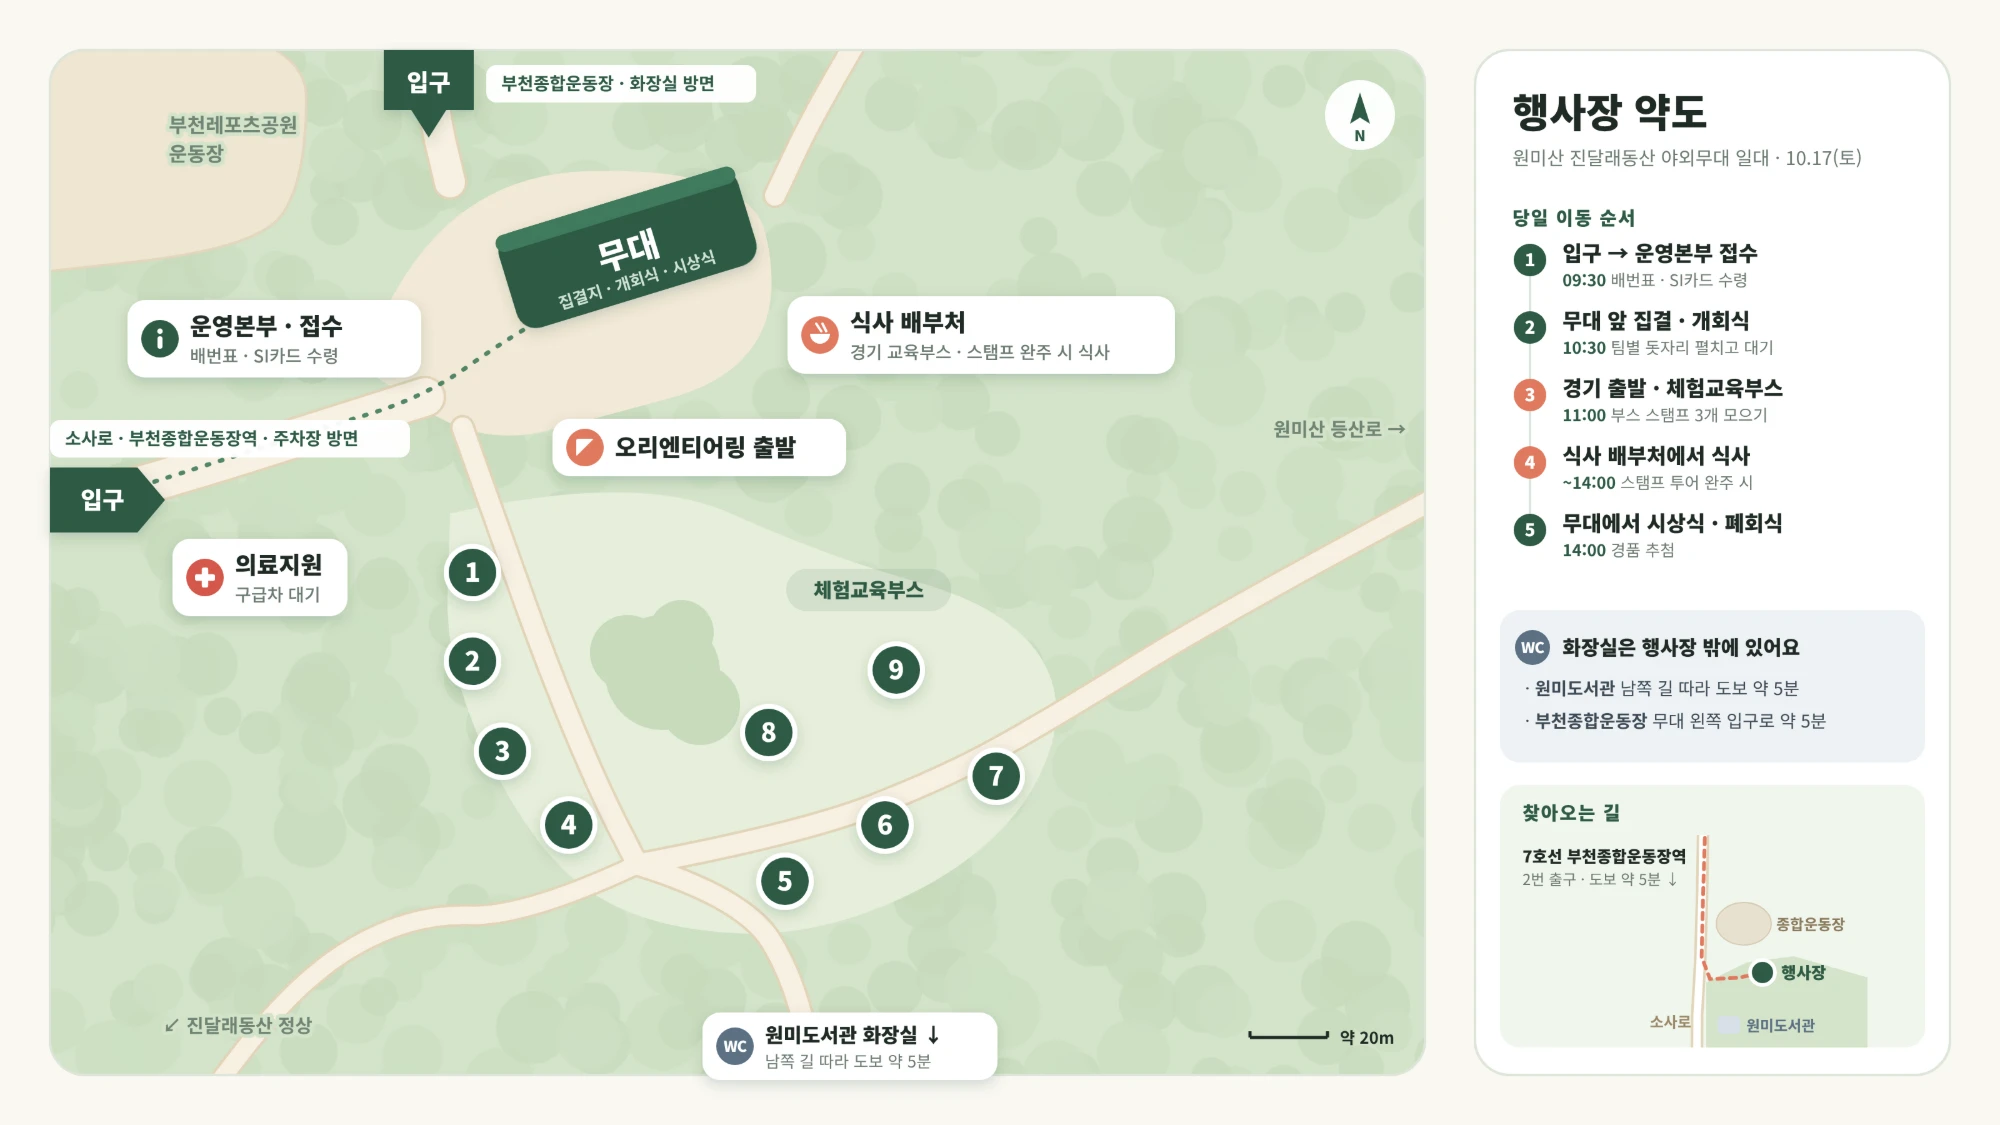
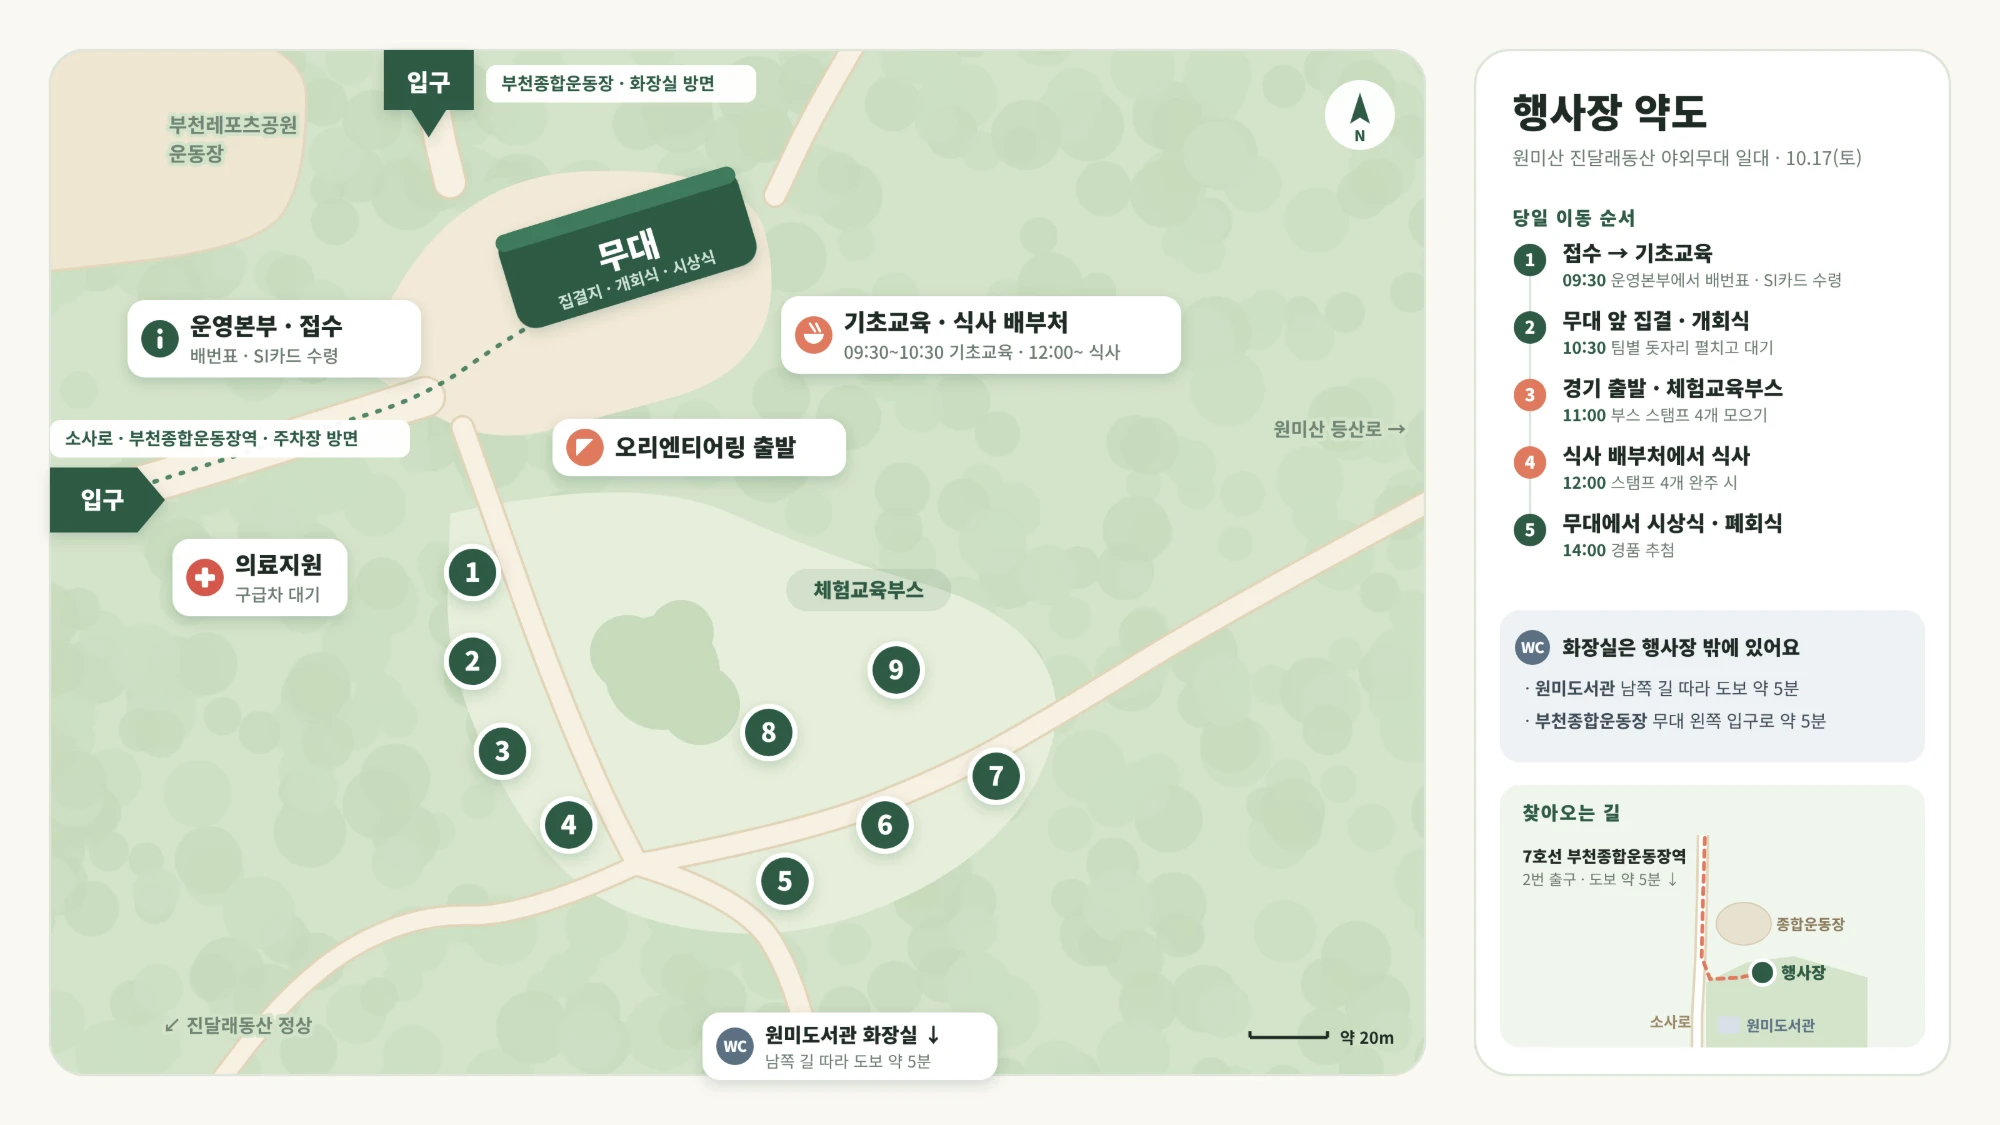
행사장 약도 이미지 수정본으로 교체
스탬프 4개 이상, 기초교육·식사 배부처(09:30~10:30 기초교육,
12:00~ 식사) 정정이 반영된 수정본으로 교체. 웹페이지 텍스트와
이제 내용이 일치함. alt 텍스트도 함께 갱신.

Changed region(s): [[0.372, 0.28, 0.558, 0.3422], [0.775, 0.2178, 0.899, 0.28], [0.775, 0.4044, 0.868, 0.4356]]

diff --git a/index.html b/index.html
@@ -257,7 +257,7 @@
                     <span class="notice-card__icon" aria-hidden="true">📍</span>
                     <h3>행사장 약도</h3>
                     <button type="button" class="map-thumb" data-modal-open="venue-map-modal">
-                        <img src="assets/images/venue-map.webp" alt="행사장 약도: 입구에서 운영본부 접수 후 무대 앞 집결·개회식, 체험교육부스 9개 구역과 오리엔티어링 출발점, 식사 배부처 위치 안내. 확대해서 보려면 선택하세요." loading="lazy">
+                        <img src="assets/images/venue-map.webp" alt="행사장 약도: 입구에서 운영본부 접수 후 무대 앞 집결·개회식, 체험교육부스 9개 구역과 오리엔티어링 출발점, 기초교육·식사 배부처(09:30~10:30 기초교육, 12:00~ 식사) 위치 안내. 확대해서 보려면 선택하세요." loading="lazy">
                         <span class="map-thumb__zoom" aria-hidden="true">🔍 확대해서 보기</span>
                     </button>
                     <p>화장실은 행사장 밖에 있어요 — 원미도서관 · 부천종합운동장 방면 도보 약 5분.</p>
